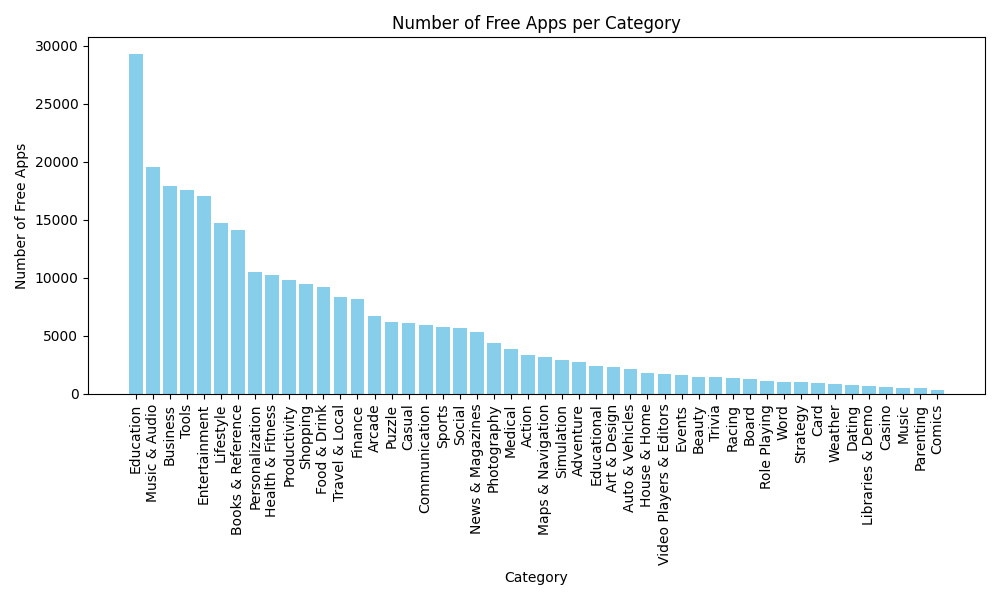
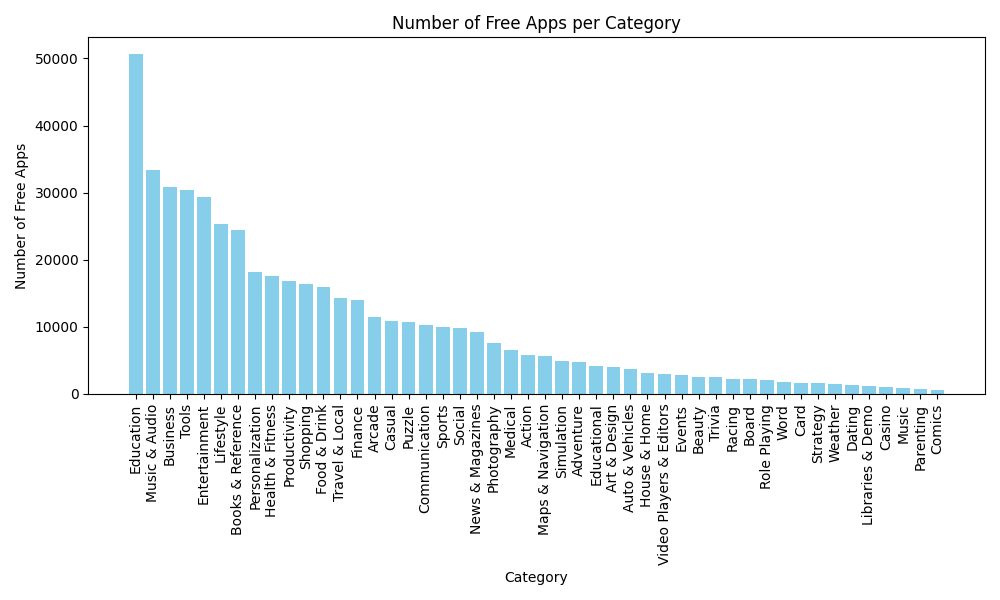
V0.6.3

diff --git a/main.py b/main.py
@@ -10,7 +10,7 @@ from sklearn.impute import SimpleImputer
 from sklearn.preprocessing import MinMaxScaler, StandardScaler
 from sklearn.model_selection import train_test_split, cross_val_score, GridSearchCV
 from sklearn.linear_model import LinearRegression, LogisticRegression, Ridge, Lasso
-from sklearn.cluster._kmeans import k_means
+from sklearn.cluster import KMeans
 from sklearn.naive_bayes import GaussianNB
 from sklearn.svm import SVR
 from sklearn.neighbors import KNeighborsRegressor, KNeighborsClassifier
@@ -26,7 +26,7 @@ full_path = os.path.join(file_path, file_name)
 
 #Start CSV File Reading
 #Ler-se-ão apenas as primeiras 180000 linhas do arquivo
-dfGPlayStore = pd.read_csv(full_path,nrows=290000)
+dfGPlayStore = pd.read_csv(full_path,nrows=500000)
 #dfGPlayStore = pd.read_csv(full_path) #dfGPlayStore = dfGPlayStore.dropna()
 #CSV File Reading Finished
 
@@ -759,10 +759,11 @@ models = {
     'Linear Regression': LinearRegression(),
     'Ridge Regression': Ridge(),
     'Lasso Regression': Lasso(),
+    'Logistic Regression': LogisticRegression(),
     #'Support Vector Machine': SVR(),
     #'':svm.SVC(kernel='linear')
-    #'K-Nearest Neighbors(regressor)': KNeighborsRegressor(),
     'K-Nearest Neighbors(classifier)': KNeighborsClassifier(n_neighbors=5),
+    'k_Means': KMeans(n_clusters=4)
     #'Decision Tree': DecisionTreeRegressor(),
     #'Random Forest': RandomForestRegressor(),
     #'Neural Network': MLPRegressor()
